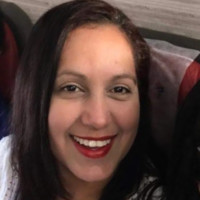
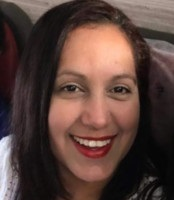
alteração da centralização e fonte

diff --git a/index.html b/index.html
@@ -8,14 +8,16 @@
     <link rel="stylesheet" href="style.css">
   </head>
   <body class="cor-fundo">
-    <h1>ALINE PEREIRA DE SOUZA</h1>
-    <img src="eu.jpg" alt="minha foto">
-    <p>Estou fazendo o curso de FrontEnd porque quero aprender mais sobre programação web e aumentar minha empregabilidade.</p>
-    <h4>Contato:</h4>
-    <ul>
-      <li>Telefone: 71 98231-9819</li>
-      <li>E-mail: lineps2004@yahoo.com.br</li>
-      <li>Linkedin: <a href="https://www.linkedin.com/in/alinepsouza/" target="_blank">clique aqui</a></li>
-    </ul>
+    <header class="intro">
+      <h1>ALINE PEREIRA DE SOUZA</h1>
+      <img src="eu.jpg" alt="minha foto">
+      <p>Estou fazendo o curso de FrontEnd porque quero aprender mais sobre programação web e aumentar minha empregabilidade.</p>
+      <h4>Contato:</h4>
+      <ul>
+        <li>Telefone: 71 98231-9819</li>
+        <li>E-mail: lineps2004@yahoo.com.br</li>
+        <li>Linkedin: <a href="https://www.linkedin.com/in/alinepsouza/" target="_blank">clique aqui</a></li>
+      </ul>
+    </header>
   </body>
 </html>

diff --git a/style.css b/style.css
@@ -1,3 +1,13 @@
 .cor-fundo{
   background-color: #079992;
 }
+.intro{
+  color: white;
+  text-align: center;
+  margin-top: 7%;
+}
+.intro img {
+  border-radius: 50%;
+  max-width: 20%;
+  max-height: 20%;
+}
